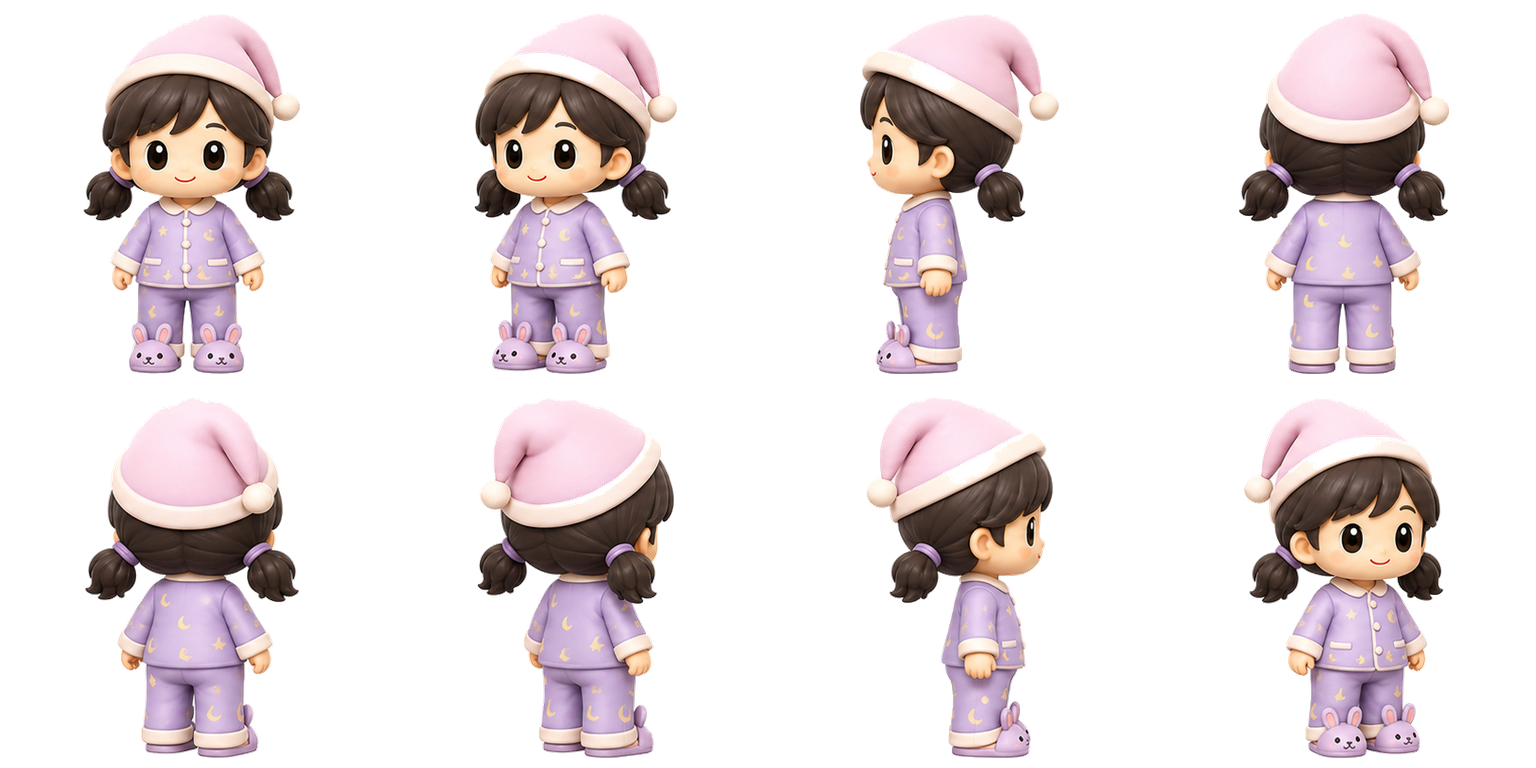
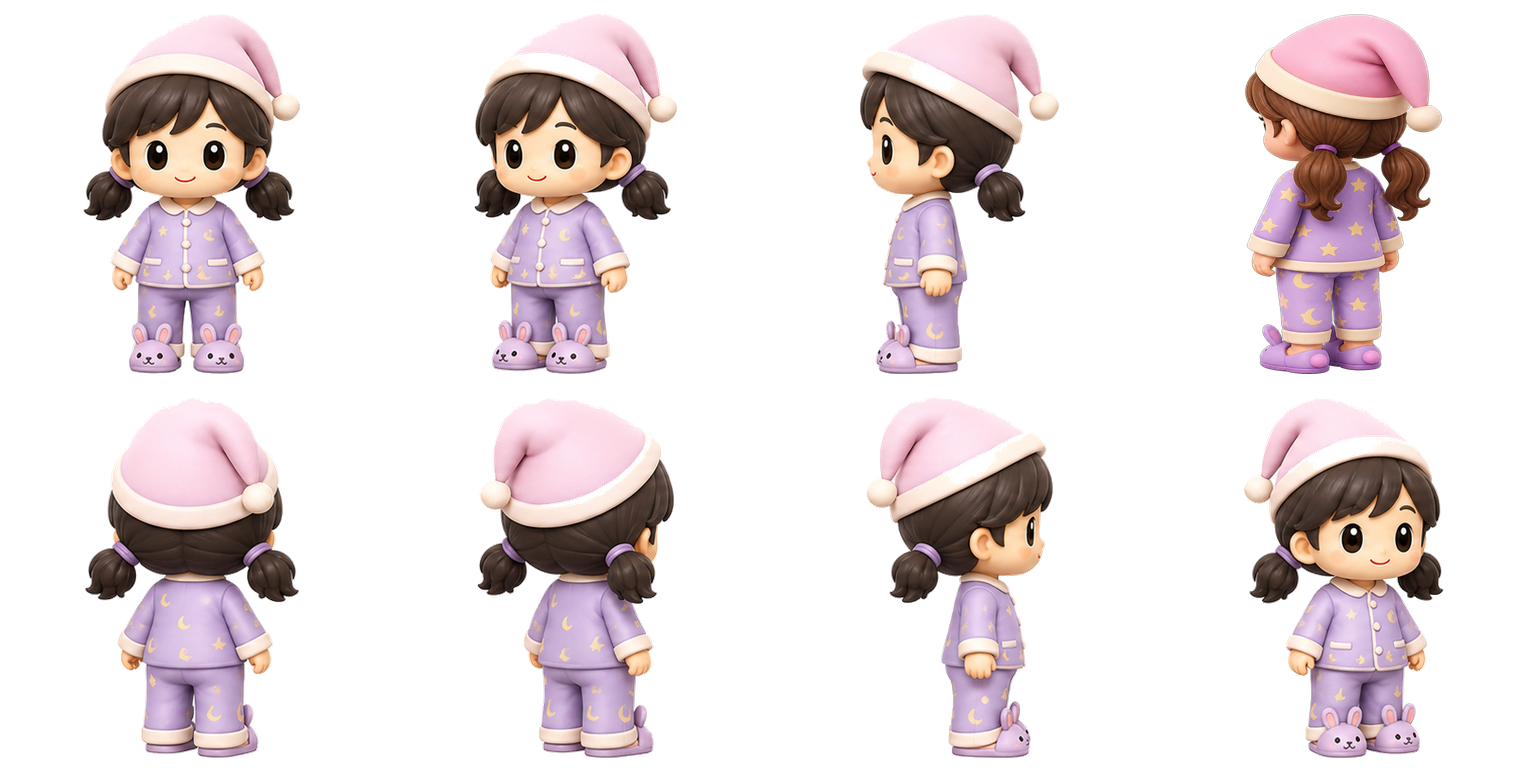
รอบ 1254: แก้ up-left นักเรียนหญิง แม่มด และชุดนอนใน Vocab Sky

Changed region(s): [[0.7812, 0.0, 0.9688, 0.5]]

diff --git a/tools/test_sky_chibi_asset.py b/tools/test_sky_chibi_asset.py
@@ -16,12 +16,35 @@ COLS, ROWS = 4, 2
 ATLAS_SIZE = (1536, 768)
 EXPECTED_TOP = 14
 EXPECTED_BOTTOM = 374
+UP_LEFT_FACE_CUE = {"schoolgirl", "witch", "pajamas"}
 
 
 def check(condition: bool, message: str) -> None:
     if not condition:
         raise AssertionError(message)
     print("PASS", message)
+
+
+def left_head_skin_pixels(image: Image.Image, frame_index: int) -> int:
+    cell_width, cell_height = image.width // COLS, image.height // ROWS
+    col, row = frame_index % COLS, frame_index // COLS
+    frame = image.crop(
+        (col * cell_width, row * cell_height, (col + 1) * cell_width, (row + 1) * cell_height)
+    )
+    count = 0
+    for y in range(min(245, cell_height)):
+        for x in range(cell_width // 2):
+            red, green, blue, alpha = frame.getpixel((x, y))
+            if (
+                alpha > 128
+                and red > 145
+                and 70 < green < 220
+                and blue < 190
+                and red > green * 1.08
+                and green > blue * 1.03
+            ):
+                count += 1
+    return count
 
 
 all_boxes: dict[str, list[tuple[int, int, int, int]]] = {}
@@ -52,6 +75,13 @@ for character_id, filename in ASSETS.items():
     check(max(box[1] for box in boxes) - min(box[1] for box in boxes) <= 2, f"{character_id} head/top alignment is stable")
     check(max(box[3] for box in boxes) - min(box[3] for box in boxes) <= 1, f"{character_id} foot baseline is stable")
     check(all(abs(box[1] - EXPECTED_TOP) <= 2 and abs(box[3] - EXPECTED_BOTTOM) <= 1 for box in boxes), f"{character_id} matches the round-1247 scale and foot anchor")
+    if character_id in UP_LEFT_FACE_CUE:
+        up_left_skin = left_head_skin_pixels(image, 3)
+        back_skin = left_head_skin_pixels(image, 4)
+        check(
+            up_left_skin >= back_skin + 500,
+            f"{character_id} up-left frame has a left face cue and is not a duplicate straight-back pose",
+        )
     all_boxes[character_id] = boxes
 
 check(len(all_boxes) == 6 and all(len(boxes) == 8 for boxes in all_boxes.values()), "all six selectable characters contain eight directions")

diff --git a/handoff/TASKS.md b/handoff/TASKS.md
@@ -28,6 +28,9 @@
 - ✅ ชนหมา = ปรับ 10 เหรียญ ต่อครั้ง — เสร็จรอบ 830
 
 ### 📌 สรุปสถานะล่าสุด (22 ส.ค.) — อ่านก่อน
+- **รอบ 1254 · แก้ up-left ของนักเรียนหญิง/แม่มด/ชุดนอน:** ช่อง frame 3 เดิมเป็นภาพหลังตรงซ้ำ frame 4; เปลี่ยนเฉพาะช่องนั้นเป็น rear-left สามส่วนสี่ (`img/characters/sky_soft_cuboid_chibi_{schoolgirl,witch,pajamas}_8dir.webp`)
+- ทั้งสามคง alpha จริง อีก 7 ช่องไม่เปลี่ยน สูง 360px/เท้า y=374 และความกว้างตรงเฟรม up-right คู่กัน; visual QA แยกตัวที่ 812×375 ครบหน้า/ซ้าย/up-left/หลัง/ขวา
+- เพิ่ม regression ตรวจ left-face cue กัน up-left ซ้ำ back; Sky renderer+alpha/atlas+production build 8,401 ไฟล์/PWA+source-dist hash ผ่าน และ `css/petshopping3d.css` hash เดิม
 - **รอบ 1252 · สัตว์รวมมิตร ชุด 2 แสดงครบ 3 แถว:** ขยายเฉพาะการ์ด `animal2.png` เต็มแถว และจัดปุ่ม 5 ชุดเป็น 2 คอลัมน์ × 3 แถว; การ์ดอื่นคง layout เดิม (`js/picmatch.js`, `css/lobby.css`)
 - geometry ที่ 1316×620 และ 812×375 ยืนยันการ์ดกว้าง 99.4%/97.6%, ปุ่มครบ 5 ชุดใน 3 แถวและอยู่ในกรอบ
 - syntax+Picmatch regression+production build 8,400 ไฟล์/PWA validator+source/dist hash ผ่าน (`tools/test_picmatch_page_cooldown.js`)
